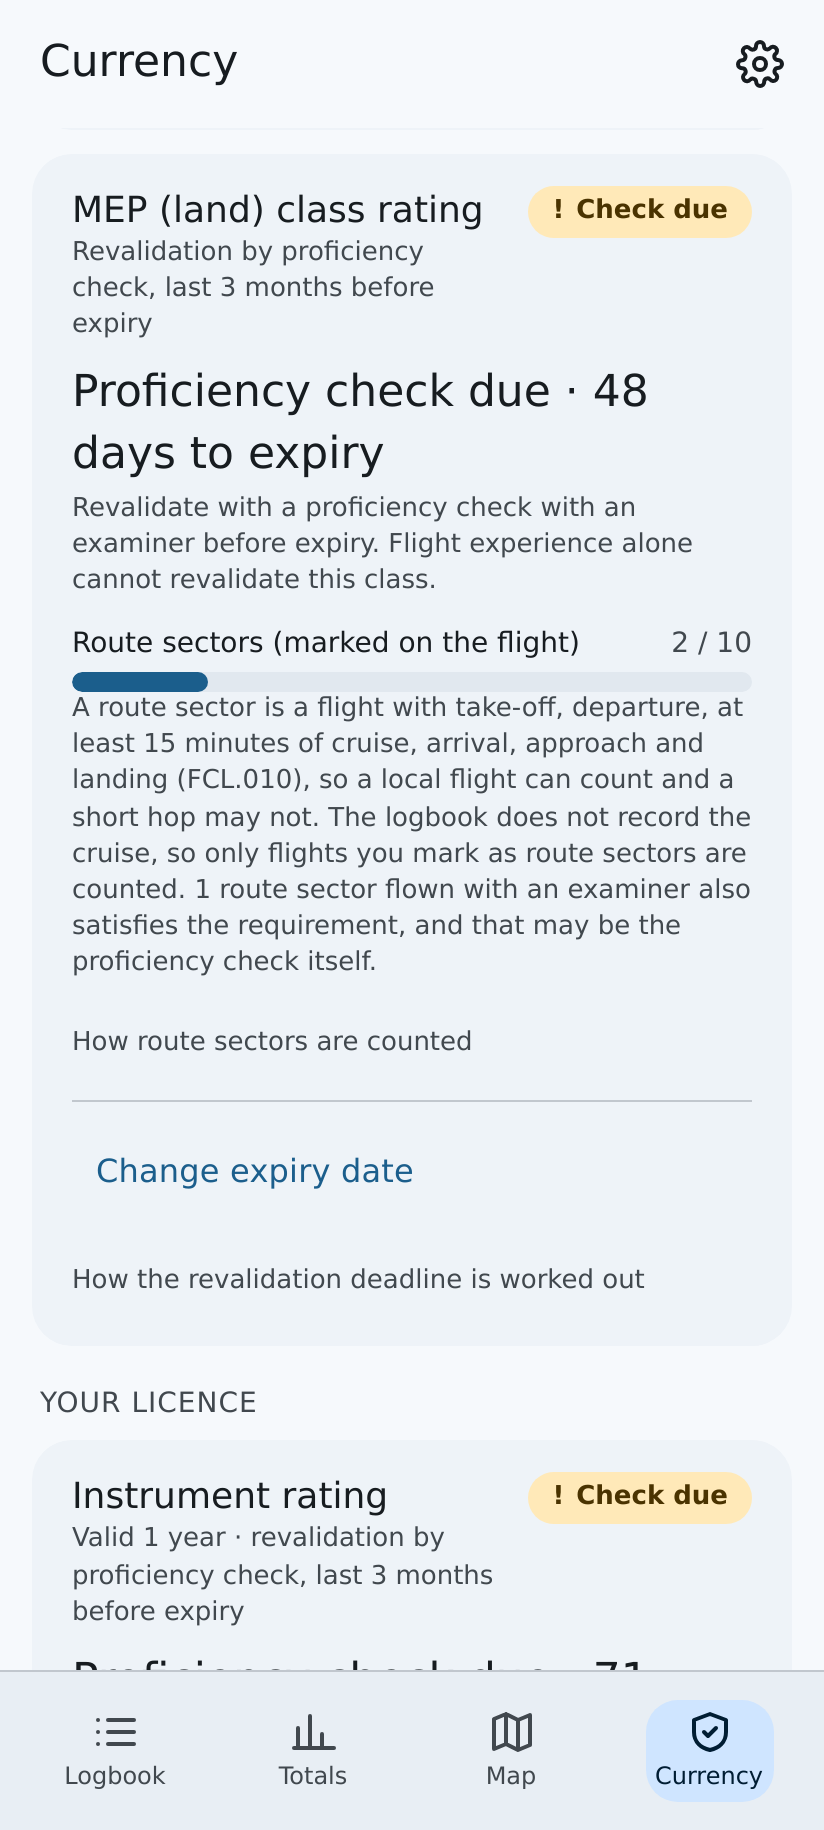
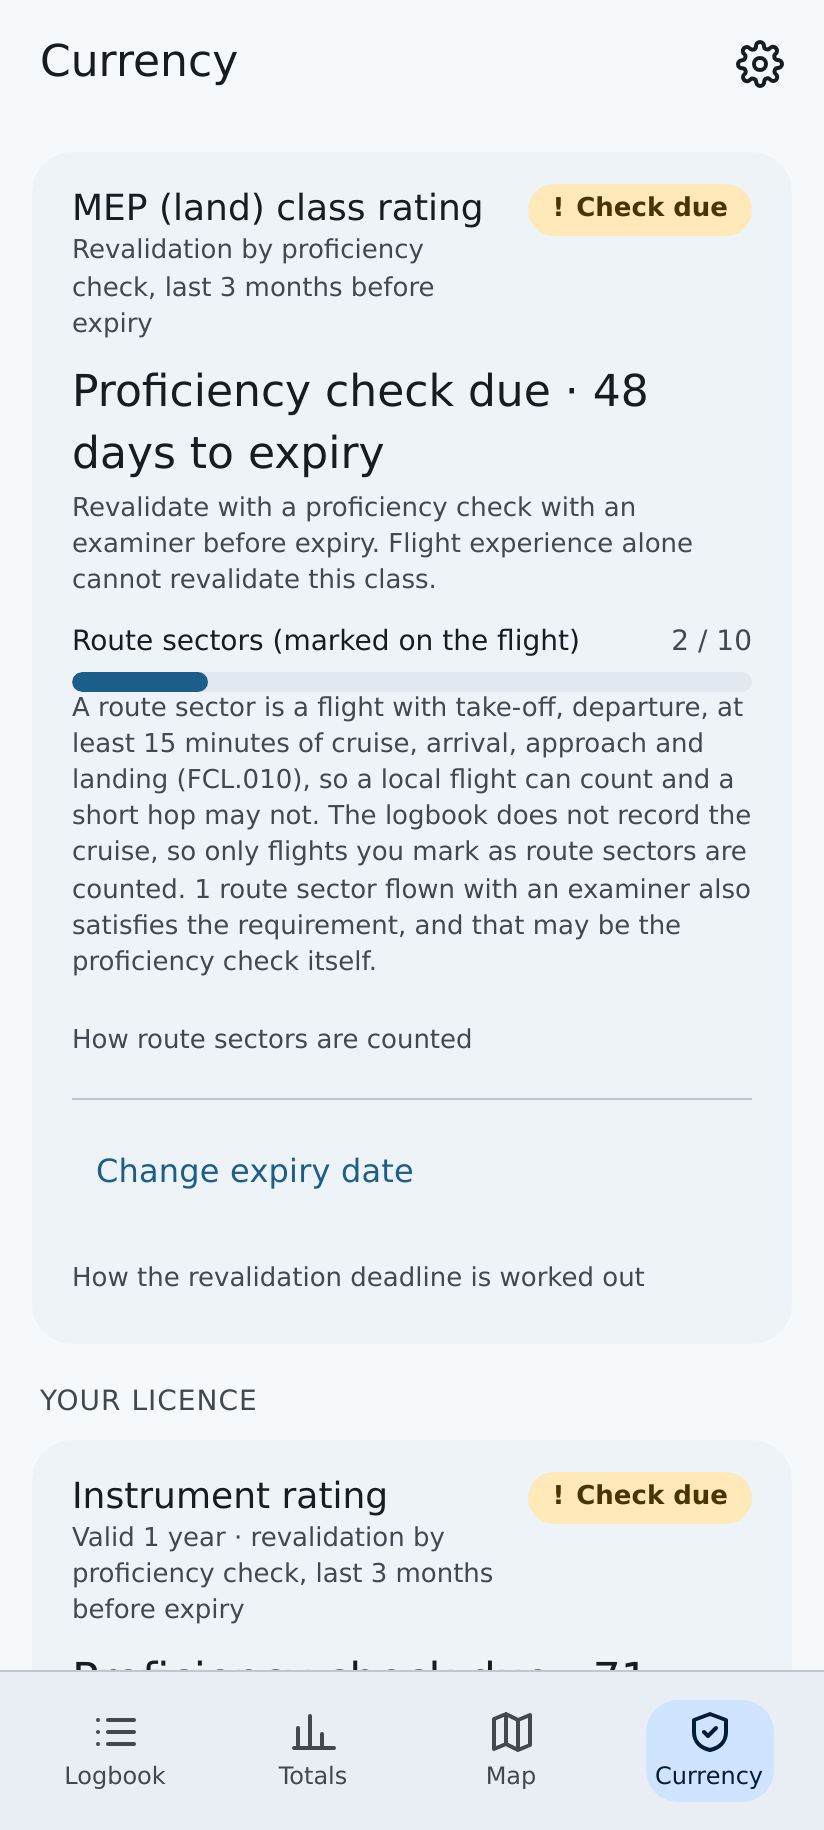
Screenshot run: render the PDF page too, and test the refusal end to end
- pdf-logbook.png was the one README image made by hand, outside the
  run, so it could fall behind the PDF. The run now renders it from
  the PDF the app generated, with pdf.js (legacy build) in the same
  headless browser, picking the first page with two simulator sessions
  as the caption says. It loads pdf.js's own font data with system
  fonts off; without that the substituted font printed "TOTAL
  FROMPREVIOUS PAGES". Install: one `npm install --no-save
  playwright-core pdfjs-dist`, since a second --no-save install drops
  the first.
- The publish step (credit every photo, then copy the screenshots and
  write the README and photo-credits.json, or refuse and touch nothing)
  moved into photo-credits.mjs as publish(), and is now tested against
  real temporary folders: success, a refused photo leaving the old
  image and README as they were, and a README without its markers.
- The temporary folder is removed on every exit, including errors and
  process.exit (a failed run had left one behind).

Screenshots regenerated through the run: the Currency ones now show
the new disclaimer line; pdf-logbook.png comes from the run itself.

Claude-Session: https://claude.ai/code/session_01G3EEp2Uvip7EYmMHXPEuAB

diff --git a/README.md b/README.md
@@ -32,15 +32,15 @@ The PDF logbook: A4 landscape, the holder block and all twelve AMC1 FCL.050 colu
 
 ### Regenerating the screenshots
 ```
-npm install --no-save playwright-core           # once: the script needs it, the app does not
-npx playwright-core install chromium            # once: the browser for that version
+npm install --no-save playwright-core pdfjs-dist   # once, in one command (a later --no-save install drops the earlier one)
+npx playwright-core install chromium               # once: the browser for that version
 npx vite-node scripts/make-demo-logbook.ts -- /tmp/demo.json
 VITE_BASE=/FlightBook/ npm run build
 VITE_BASE=/FlightBook/ npx vite preview --port 4330 --strictPort &   # VITE_BASE here too, or the page is blank
 curl -sLo /tmp/airports.csv https://davidmegginson.github.io/ourairports-data/airports.csv
 node scripts/make-screenshots.mjs http://localhost:4330/FlightBook/ /tmp/demo.json /tmp/airports.csv
 ```
-The script loads the demo logbook through the app's own import and imports the airport database the same way, so the screenshots can only show states the app can really reach: the airport names on the flight form and the routes on the map are looked up, not drawn in. It also saves the PDF the app generates; `pdf-logbook.png` is a page of that file rendered to an image. The `airports.csv` argument is optional; without it the map and the airport names are skipped.
+The script loads the demo logbook through the app's own import and imports the airport database the same way, so the screenshots can only show states the app can really reach: the airport names on the flight form and the routes on the map are looked up, not drawn in. It also saves the PDF the app generates and renders the first page with two simulator sessions on it to `pdf-logbook.png`, with pdf.js in the same browser. The `airports.csv` argument is optional; without it the map and the airport names are skipped.
 
 **Planespotters is blocked for the whole run**, so aircraft photos can only come from Wikimedia Commons, and the run aborts if a photo from anywhere else was used. This is a licensing rule, not a preference: Commons photos are freely licensed and can be credited, Planespotters photos are not and must never be committed under `docs/`. **The run writes the photo credits below itself**, from what was actually on screen: each screenshot records which photos are visible in it, and the title, author, licence and source come from the app's own cache. It writes them to `docs/screenshots/photo-credits.json` and into this README between the `photo-credits` markers, and it takes the screenshots into a temporary folder, copying them to `docs/screenshots/` only once every photo can be credited. A photo without an author or licence, not from Commons, or under a licence that cannot be combined under CC BY-SA 4.0 stops the run and changes nothing. A unit test fails if the README's credits and the JSON ever disagree, so the credits cannot be edited away by hand either.
 
